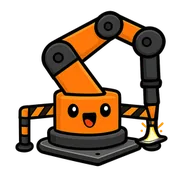
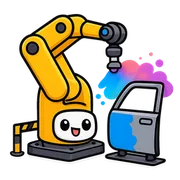
Industrial robot = yellow industrial arm tile + floor work + SI; painting robot art; arm tile debuts at level 7
Claude-Session: https://claude.ai/code/session_019QwctBLnb4UTXMJBnbargq

diff --git a/index.html b/index.html
@@ -41,7 +41,7 @@
   --warn: #C77F00;
   --bad: #C03A2A;
   --scrim: rgba(6, 22, 26, 0.6);
-  --t-wheel: #E34234; --t-auto: #1E88C8; --t-arm: #F28C28; --t-legs: #F2C230; --t-tool: #8E3A9E; --t-hum: #D9DDE1; --t-floor: #3A9D5D; --t-made: #27407A; --t-union: #800020; --t-term: #5A5F66; --t-gundam: #2F5FB3; --t-eva: #7CC63E; --t-tf: #B5262B; --t-korea: #9C7A3C;
+  --t-wheel: #E34234; --t-auto: #1E88C8; --t-arm: #F28C28; --t-iarm: #474C55; --t-legs: #F2C230; --t-tool: #8E3A9E; --t-hum: #D9DDE1; --t-floor: #3A9D5D; --t-made: #27407A; --t-union: #800020; --t-term: #5A5F66; --t-gundam: #2F5FB3; --t-eva: #7CC63E; --t-tf: #B5262B; --t-korea: #9C7A3C;
   --t-ink-dark: #2B2118; --t-ink-light: #FFFFFF;
   --p-1: #1E88C8; --p-2: #F2C230; --p-3: #E34234; --p-4: #800020;
   --font-title: 'Rye', 'Georgia', serif;
@@ -751,6 +751,7 @@ const TILES = {
   auto:  { icon: '🧠', name: '피지컬AI', color: 'var(--t-auto)' },  // 자율주행·판단을 맡는 AI
   floor: { icon: '🚧', name: '바닥 공사', color: 'var(--t-floor)' },
   arm:   { icon: svgIcon('cobot'), img: svgImg('cobot'), name: '로봇 팔',  color: 'var(--t-arm)', lite: true },
+  iarm:  { icon: '🦾', name: '산업용 팔', color: 'var(--t-iarm)' },  // 바닥에 고정하는 노란 산업용 로봇 팔 (빈손)
   tool:  { icon: svgIcon('grip'), img: svgImg('grip'), name: '엔드포인트 SI', color: 'var(--t-tool)' },
   legs:  { icon: '🦿', name: '다리',     color: 'var(--t-legs)', lite: true },
   made:  { icon: '🇺🇸', name: '해외수출', color: 'var(--t-made)' },
@@ -764,14 +765,14 @@ const TILES = {
   tf:     { icon: '🚗', name: '트랜스포머', color: 'var(--t-tf)', special: true },
 };
 // ───────── 로봇 = 부품 묶음 ─────────
-// AMR = 바퀴+AI / AGV = 바퀴+바닥 공사(마그넷·QR 경로) / 협동로봇 = 팔+툴(SI) / 산업용 로봇 = 팔+바닥 공사(고정·울타리)+SI
+// AMR = 바퀴+AI / AGV = 바퀴+바닥 공사(마그넷·QR 경로) / 협동로봇 = 팔+툴(SI) / 산업용 로봇 = 산업용 팔+바닥 공사(고정·울타리)+SI
 // 모바일 매니퓰레이터 = AMR 위에 협동로봇(⑧ LG엔솔) / 4족 = 다리 둘+SI / 휴머노이드 = 특수 타일 3개 맞추기+SI
 // 팔 달린 4족 = 다리 둘+팔+SI / 켄타우로스 = 4족 하체에 휴머노이드 상체+SI
 const ROBOTS = {
   amr:   { icon: '🚚', name: 'AMR',               parts: ['wheel', 'auto'] },
   agv:   { icon: '🛤', name: 'AGV',               parts: ['wheel', 'floor'] },
   cobot: { icon: '🦾', name: '협동로봇',           parts: ['arm', 'tool'] },
-  indus: { icon: '🏗', name: '산업용 로봇',        parts: ['arm', 'floor', 'tool'] },  // 팔 + 바닥 공사(고정·안전 울타리) + SI
+  indus: { icon: '🏗', name: '산업용 로봇',        parts: ['iarm', 'floor', 'tool'] },  // 산업용 팔 + 바닥 공사(고정·안전 울타리) + SI
   mm:    { icon: '🚜', name: '모바일 매니퓰레이터', parts: ['wheel', 'auto', 'arm', 'tool'] },
   quad:  { icon: '🐕🦺', name: '4족로봇',           parts: ['legs', 'legs', 'auto'] },  // 다리 둘 + AI
   qarm:  { icon: '🦂', name: '팔 달린 4족로봇',    parts: ['legs', 'legs', 'arm', 'tool'] },
@@ -845,7 +846,7 @@ SECTORS.sort((a, b) => a.key.codePointAt(0) - b.key.codePointAt(0));
 // 5×6이면 4개짜리 매치가 잦아져 휴머노이드가 너무 쉽게 나와서 5×5 유지
 // 조건 타일: 6단계부터 노사합의(현대차), 9단계부터 해외수출 성조기(미국 손님), 10단계부터 국내생산 태극기(방위산업)
 const BASE_TILES = ['wheel', 'auto', 'arm', 'tool', 'floor', 'legs'];
-const TILE_FROM = { union: 6, made: 9, korea: 10 };
+const TILE_FROM = { union: 6, iarm: 7, made: 9, korea: 10 };
 // 새 로봇이 처음 나오는 단계: 그 전에는 안 나오고, 그 판에는 꼭 나옴 (판 시작에 '새 로봇 등장!' 사례 페이지)
 const ROBOT_FROM = { indus: 7 };
 const robotOpen = (r, lv) => !ROBOT_FROM[r] || lv >= ROBOT_FROM[r];  // 노사합의는 타일이 5종인 6단계부터
@@ -1678,6 +1679,7 @@ const TILE_HELP = {
   auto: '스스로 보고 판단하는 로봇의 두뇌. AMR·4족로봇·휴머노이드에 필요해요.',
   floor: 'AGV가 따라갈 길(자석 테이프·QR)을 까는 공사, 산업용 로봇을 바닥에 고정하고 안전 울타리를 치는 공사예요.',
   arm: '사람 옆에서 같이 일하는 협동로봇의 팔이에요.',
+  iarm: '크고 힘센 산업용 로봇 팔. 바닥 공사(고정·안전 울타리)와 SI를 더하면 산업용 로봇이 돼요. 협동로봇 팔과 달리 사람 곁에 두지 않아요.',
   tool: '용접 토치·집게·튀김 바구니처럼 일에 맞는 도구를 달고 현장에 맞춰 설치(SI)해요.',
   legs: '계단·험한 곳을 걷는 다리. 4족로봇은 다리 타일을 두 번 맞춰야 해요.',
   made: '미국 FCC가 외국에서 만든 첨단 로봇 인증을 막아요. 미국 주문(트럼프 손님)에 이 칸이 붙어요.',
@@ -2021,7 +2023,7 @@ const faceHTML = (e, who = 'suit') => FACE_ART[who][e] || FACE_ART.suit[e] || e;
 // 같은 그림이 여러 개 있어도 박자가 겹치지 않게 시작점을 흩뜨림
 // 그림을 다시 그려도 폰에 남은 옛 그림이 보이지 않게 주소에 버전을 붙임
 // 파일마다 내용이 바뀔 때만 새로 받도록 파일 해시를 붙임 (빌드할 때 채움)
-const ART_HASH = {"tile-gundam-a.png": "41a00219", "ind-school-a.png": "1b0fc977", "robot-cobot-cook-b.png": "3f739fa6", "tile-tool-a.png": "f174149f", "tile-made-a.png": "d557ba97", "ind-training-b.png": "0efc1d0b", "robot-qarm-a.png": "901f7afc", "tile-legs-b.png": "c0299b41", "tile-union-b.png": "b3a03a42", "robot-indus-b.png": "2312e70c", "face-cook-frown.png": "e01a4907", "face-cook-neutral.png": "71441525", "ind-battery-b.png": "6e2bd18d", "ind-fire-a.png": "a71484d3", "face-trump-neutral.png": "5aecac90", "tile-legs-a.png": "2faadad6", "face-worker-angry.png": "eb6b88ed", "ind-steel-a.png": "0f070238", "face-suitf-delight.png": "d729900f", "ind-steel-b.png": "e122612f", "ind-defense-b.png": "5aa959f1", "face-cook-angry.png": "50c65318", "ind-port-b.png": "6f5dc395", "tile-tf-a.png": "d2bc0939", "ind-factory-a.png": "909659fd", "tile-term-b.png": "fa8e5b3f", "face-neutral.png": "a9a959b5", "tile-wheel-a.png": "9e98ebac", "face-cook-smile.png": "be9219e0", "robot-indus-a.png": "68a90839", "tile-korea-b.png": "ebe1008b", "face-trump-tear.png": "21d22245", "tile-auto-b.png": "bb58686e", "ind-material-b.png": "a8f27197", "tile-korea-a.png": "d1987f19", "tile-union-a.png": "d48507d4", "ind-auto-a.png": "9a8abf4f", "face-frown.png": "26865767", "robot-centaur-a.png": "a9e1e03b", "tile-auto-a.png": "e7100d25", "robot-cobot-cook-a.png": "2acb022c", "face-worker-tear.png": "940dcfc3", "ind-autoparts-b.png": "a5dbd76a", "face-suitf-angry.png": "5b24ceb5", "face-suitf-tear.png": "d0923069", "robot-centaur-b.png": "848f1932", "robot-mm-a.png": "e5da97cf", "ind-defense-a.png": "23a0651c", "robot-quad-a.png": "1e1384cf", "ind-autoparts-a.png": "26dcf7ce", "tile-eva-b.png": "b64d5546", "face-cook-tear.png": "d529800c", "tile-gundam-b.png": "69722c17", "face-trump-delight.png": "e41c1f7d", "face-angry.png": "8542c3c5", "tile-floor-b.png": "7bfb4d09", "face-suitf-smile.png": "2bfa949d", "ind-material-a.png": "2c67685e", "tile-term-a.png": "f86a988f", "tile-eva-a.png": "48055f29", "tile-hum-a.png": "cdc85433", "ind-port-a.png": "0e5340b9", "ind-police-a.png": "717025fa", "wheel-tilt-ref.png": "4a1e31a2", "robot-cobot-a.png": "bb066d5e", "face-trump-angry.png": "6fc0cf6d", "tile-wheel-b.png": "df5d2104", "indus-ref.png": "2bfe4680", "face-worker-neutral.png": "f4f1ff96", "robot-amr-a.png": "21455470", "face-delight.png": "4b63238d", "face-trump-frown.png": "4102f723", "robot-mm-b.png": "41cc89c7", "ind-fire-b.png": "c530534e", "ind-police-b.png": "750b1169", "ind-ess-b.png": "c7fac005", "ind-training-a.png": "a9fe00e5", "tile-tf-b.png": "23f3efda", "ind-aircraft-a.png": "53a6b218", "ind-school-b.png": "a14af652", "tile-arm-b.png": "6cb9dab3", "face-worker-delight.png": "56fdb189", "face-worker-smile.png": "7eaefd7c", "robot-quad-b.png": "9b27fe7b", "ind-chicken-a.png": "bd4bc4e3", "face-cook-delight.png": "5ceb20b0", "ind-battery-a.png": "2ead7359", "robot-agv-b.png": "397f8942", "face-tear.png": "7cacead6", "face-suitf-neutral.png": "b29259fe", "ind-auto-b.png": "f90715bb", "ind-shipyard-a.png": "7c43481e", "tile-tool-b.png": "c8c8a23a", "ind-factory-b.png": "b9dfaab4", "ind-chicken-b.png": "b4930a6b", "ind-shipyard-b.png": "098fdbae", "robot-qarm-b.png": "abd9a737", "tile-arm-a.png": "cd420a51", "tile-made-b.png": "7077aabd", "tile-floor-a.png": "14074a30", "robot-cobot-weld-a.png": "da53987b", "robot-agv-a.png": "ee67b65c", "ind-logistics-b.png": "9c5aeeca", "face-smile.png": "786eeb95", "face-worker-frown.png": "0f8d8086", "robot-cobot-weld-b.png": "a9e69108", "robot-amr-b.png": "e23a5198", "tile-hum-b.png": "01ca7c8b", "ind-ess-a.png": "83fff111", "face-suitf-frown.png": "1236f440", "ind-aircraft-b.png": "6afa5f2a", "face-trump-smile.png": "03674df8", "robot-cobot-b.png": "7ea58bc1", "ind-logistics-a.png": "b1b04f38"};
+const ART_HASH = {"tile-gundam-a.png": "41a00219", "ind-school-a.png": "1b0fc977", "robot-cobot-cook-b.png": "3f739fa6", "tile-tool-a.png": "f174149f", "tile-made-a.png": "d557ba97", "ind-training-b.png": "0efc1d0b", "robot-qarm-a.png": "901f7afc", "tile-legs-b.png": "c0299b41", "tile-union-b.png": "b3a03a42", "robot-indus-b.png": "4a7cabef", "face-cook-frown.png": "e01a4907", "face-cook-neutral.png": "71441525", "ind-battery-b.png": "6e2bd18d", "ind-fire-a.png": "a71484d3", "face-trump-neutral.png": "5aecac90", "tile-legs-a.png": "2faadad6", "face-worker-angry.png": "eb6b88ed", "ind-steel-a.png": "0f070238", "face-suitf-delight.png": "d729900f", "tile-iarm-a.png": "fc127d92", "ind-steel-b.png": "e122612f", "ind-defense-b.png": "5aa959f1", "face-cook-angry.png": "50c65318", "ind-port-b.png": "6f5dc395", "tile-tf-a.png": "d2bc0939", "ind-factory-a.png": "909659fd", "tile-term-b.png": "fa8e5b3f", "face-neutral.png": "a9a959b5", "tile-wheel-a.png": "9e98ebac", "face-cook-smile.png": "be9219e0", "robot-indus-a.png": "ba4c70bc", "tile-korea-b.png": "ebe1008b", "face-trump-tear.png": "21d22245", "tile-auto-b.png": "bb58686e", "ind-material-b.png": "a8f27197", "tile-korea-a.png": "d1987f19", "tile-union-a.png": "d48507d4", "ind-auto-a.png": "9a8abf4f", "face-frown.png": "26865767", "robot-centaur-a.png": "a9e1e03b", "tile-auto-a.png": "e7100d25", "robot-cobot-cook-a.png": "2acb022c", "face-worker-tear.png": "940dcfc3", "ind-autoparts-b.png": "a5dbd76a", "face-suitf-angry.png": "5b24ceb5", "tile-iarm-b.png": "f0647318", "face-suitf-tear.png": "d0923069", "robot-centaur-b.png": "848f1932", "robot-mm-a.png": "e5da97cf", "ind-defense-a.png": "23a0651c", "robot-quad-a.png": "1e1384cf", "ind-autoparts-a.png": "26dcf7ce", "tile-eva-b.png": "b64d5546", "face-cook-tear.png": "d529800c", "tile-gundam-b.png": "69722c17", "face-trump-delight.png": "e41c1f7d", "face-angry.png": "8542c3c5", "tile-floor-b.png": "7bfb4d09", "face-suitf-smile.png": "2bfa949d", "ind-material-a.png": "2c67685e", "tile-term-a.png": "f86a988f", "tile-eva-a.png": "48055f29", "tile-hum-a.png": "cdc85433", "ind-port-a.png": "0e5340b9", "ind-police-a.png": "717025fa", "wheel-tilt-ref.png": "4a1e31a2", "robot-cobot-a.png": "bb066d5e", "face-trump-angry.png": "6fc0cf6d", "tile-wheel-b.png": "df5d2104", "indus-ref.png": "2bfe4680", "face-worker-neutral.png": "f4f1ff96", "robot-amr-a.png": "21455470", "face-delight.png": "4b63238d", "face-trump-frown.png": "4102f723", "robot-mm-b.png": "41cc89c7", "ind-fire-b.png": "c530534e", "ind-police-b.png": "750b1169", "ind-ess-b.png": "c7fac005", "ind-training-a.png": "a9fe00e5", "tile-tf-b.png": "23f3efda", "ind-aircraft-a.png": "53a6b218", "ind-school-b.png": "a14af652", "tile-arm-b.png": "6cb9dab3", "face-worker-delight.png": "56fdb189", "face-worker-smile.png": "7eaefd7c", "robot-quad-b.png": "9b27fe7b", "ind-chicken-a.png": "bd4bc4e3", "face-cook-delight.png": "5ceb20b0", "ind-battery-a.png": "2ead7359", "robot-agv-b.png": "397f8942", "face-tear.png": "7cacead6", "face-suitf-neutral.png": "b29259fe", "ind-auto-b.png": "f90715bb", "ind-shipyard-a.png": "7c43481e", "tile-tool-b.png": "c8c8a23a", "ind-factory-b.png": "b9dfaab4", "ind-chicken-b.png": "b4930a6b", "ind-shipyard-b.png": "098fdbae", "robot-qarm-b.png": "abd9a737", "tile-arm-a.png": "cd420a51", "tile-made-b.png": "7077aabd", "tile-floor-a.png": "14074a30", "robot-cobot-weld-a.png": "da53987b", "robot-agv-a.png": "ee67b65c", "ind-logistics-b.png": "9c5aeeca", "face-smile.png": "786eeb95", "face-worker-frown.png": "0f8d8086", "robot-cobot-weld-b.png": "a9e69108", "robot-amr-b.png": "e23a5198", "tile-hum-b.png": "01ca7c8b", "ind-ess-a.png": "83fff111", "face-suitf-frown.png": "1236f440", "ind-aircraft-b.png": "6afa5f2a", "face-trump-smile.png": "03674df8", "robot-cobot-b.png": "7ea58bc1", "ind-logistics-a.png": "b1b04f38"};
 // 게임에서는 가벼운 webp(assets/w/)를 씀. 파일 이름은 png와 같고 확장자만 다름
 const av = f => { const n = f.replace('assets/', ''); return `assets/w/${n.replace(/\.png$/, '.webp')}?v=${ART_HASH[n] || '0'}`; };
 // 업종 아이콘(ind-)은 a프레임만, 로봇·부품은 a·b를 번갈아 (팔이 까딱, 다리가 제자리걸음 등)
@@ -2383,7 +2385,7 @@ function banner(text, delay) {
 }
 
 // ───────── 진행 ─────────
-const BUILD_V = '1003-195223';
+const BUILD_V = '1003-195930';
 function loop(t) {
   const dt = Math.min(0.1, (t - (S.last || t)) / 1000);
   S.last = t;
